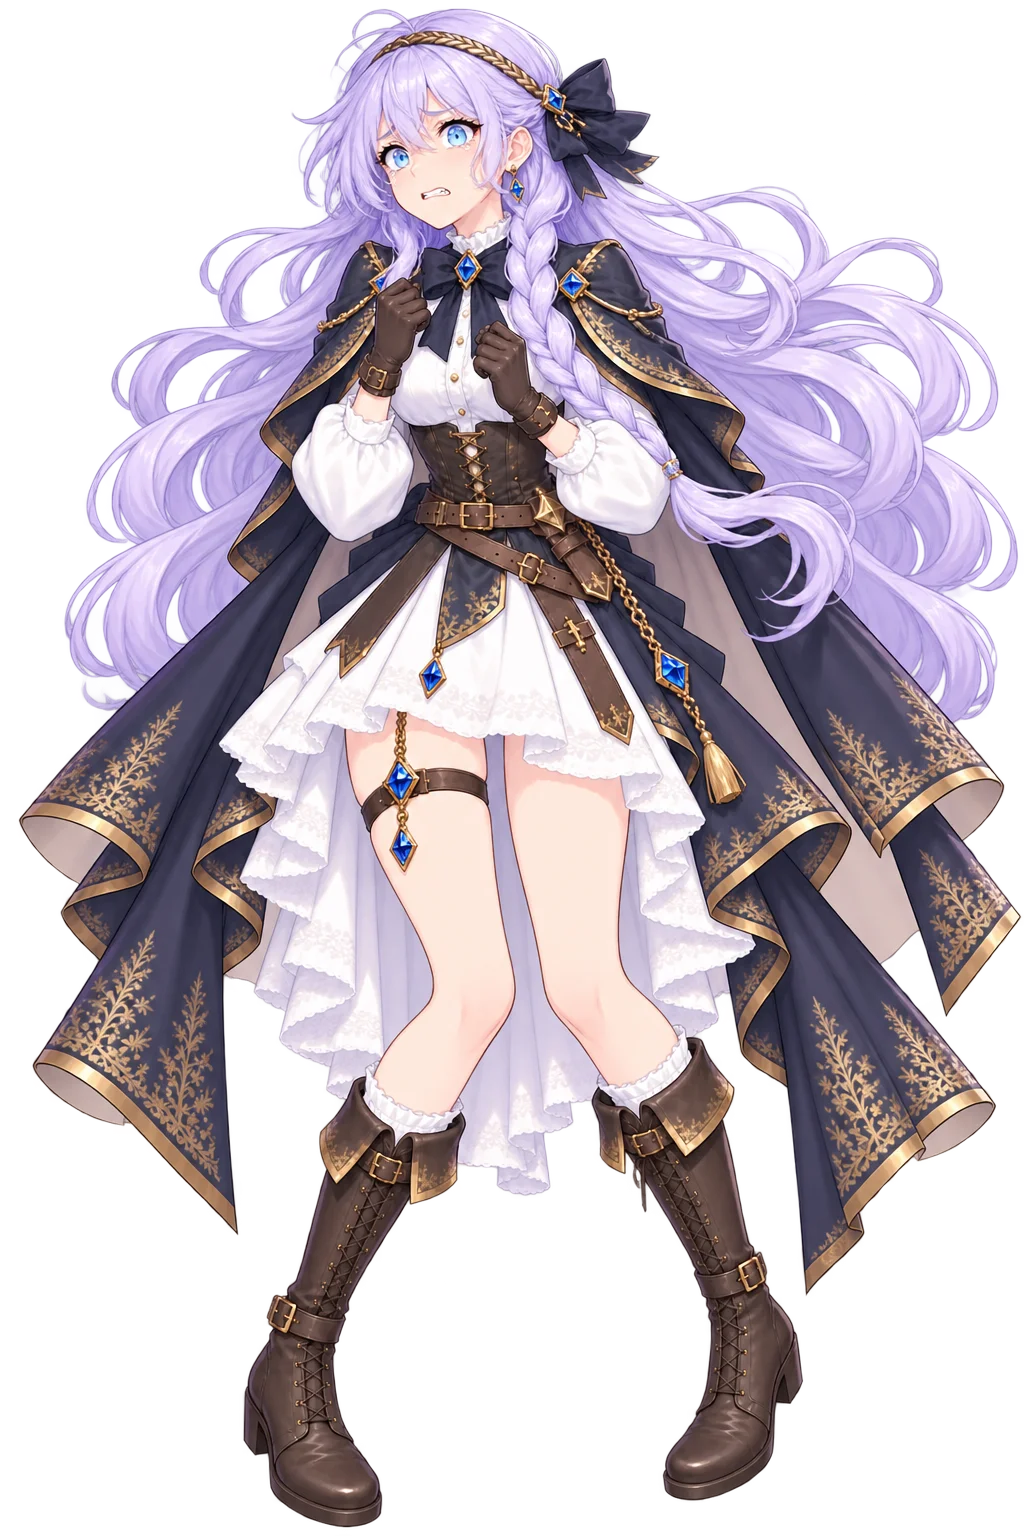
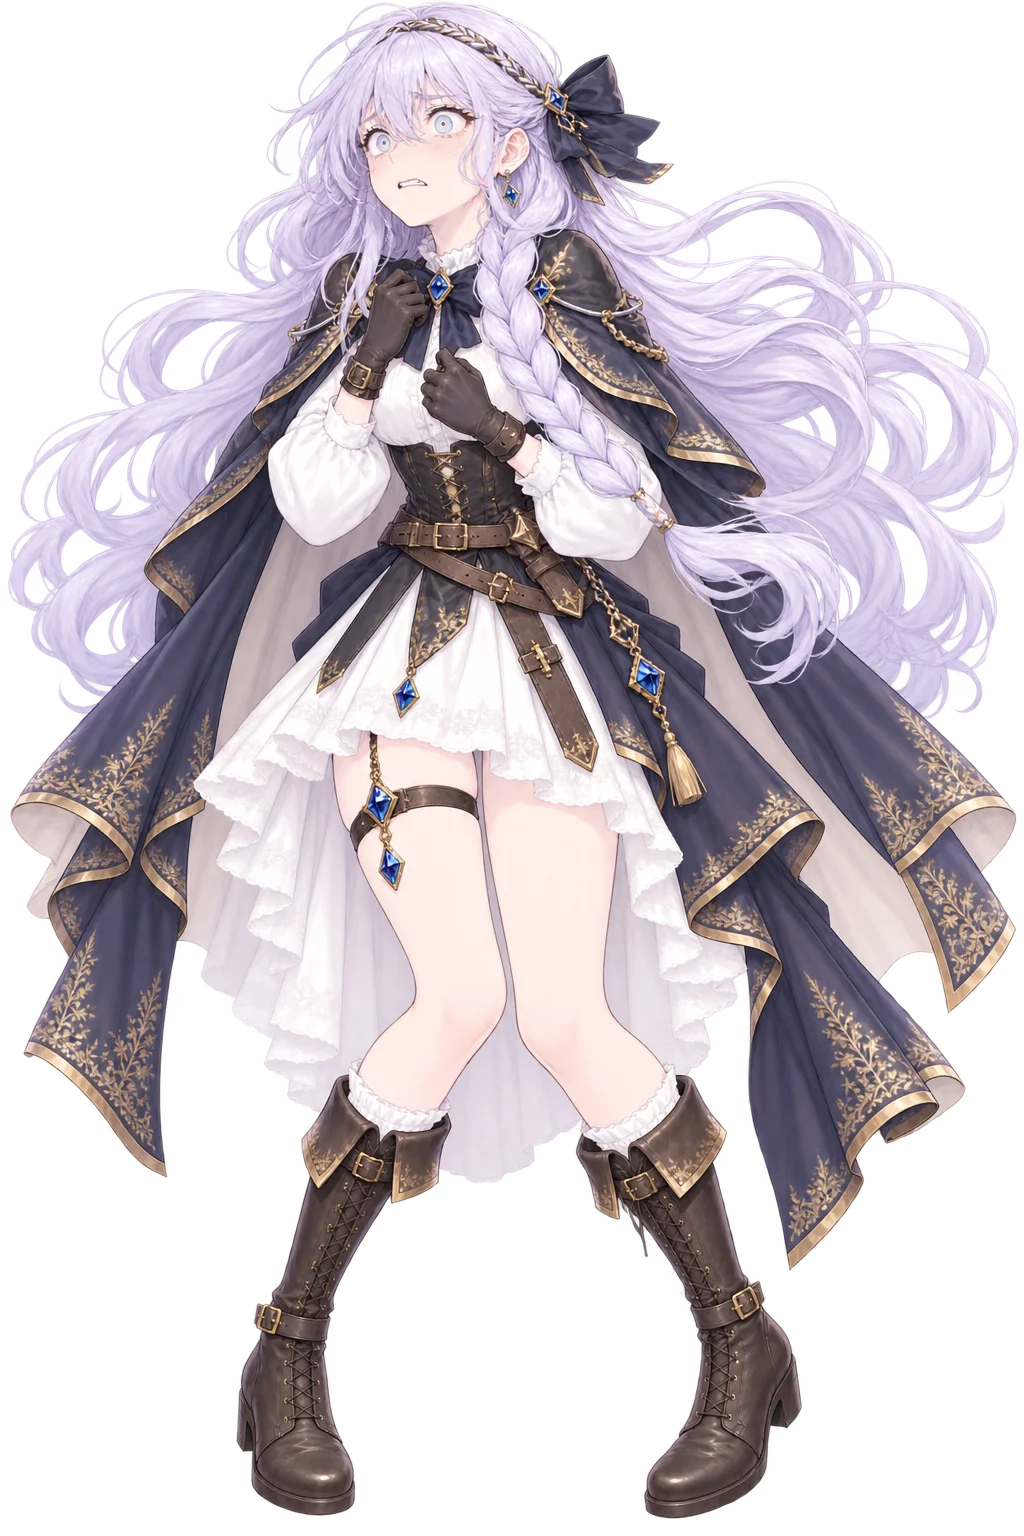
art(安雅): terrify 還原成重畫前舊版（重畫版表情壞掉）；HANDOFF 32 請程式端跳 ?v=3 並換回舊取景

diff --git a/HANDOFF.md b/HANDOFF.md
@@ -119,6 +119,9 @@
 >    ⇒ 第 29＋30 項接完之後，遊戲裡安雅就全部是新畫風了。
 > 31. **（09-28，Mac）索拉娜冒險者裝基底 `resources/si/sorana_ad_si_front.webp`**（Ray：「索拉娜的冒險者裝束立繪，一字領抹胸與短夾克，貼身七分褲」；命名同第 28 項 `<角色>_ad_si_<表情>`）
 >    **定稿（09-28 同日第三版，同名覆蓋）**：象牙白露肩泡泡袖罩衫＋深祖母綠仕女腰封＋深墨綠開高衩長裙＋干邑色皮件＋大腿／腰間飛刀（無槍）＋繫帶短靴，**岔腿正面站姿**當基底（Ray：「就定稿這一版，讓她岔開腿站好當作基底」）。真 alpha；還沒有任何引用 ⇒ 不必跳 `?v=`。`measure_si.py`：`top:6 bot:1522 fx:0.502`。用在哪一段、要不要進 `speakers.js` 等 Ray（同 `renna_ad_si_front`）。
+> 32. **（09-28，Mac）安雅 `terrify` 還原成重畫前的舊版**（Ray：「安雅 terrify 修壞了，改回來，然後完全保留表情再重製一次」—— 重畫版把縮瞳失神的眼睛畫成正常藍眼）
+>    `resources/si/anya_si_terrify.webp` 已換回重畫前那一張（與 `8465b6de^` 逐位元組相同）。程式端：`speakers.js` 的 terrify **`?v=2`→`?v=3`**、取景改回舊值 **`top:0 bot:1518 fx:0.448`**。
+>    ⚠ 美術接著會照同一套作法、**鎖死表情**再重畫一次；重畫版交件時會再開一項（到時再跳 `?v=`）。
 > 美術現況與換機器交接：**`resources/_HANDOFF_ART_20260925.md`**（§七＝米夏九張；§八＝廢城兩次退稿到定風格；§九＝聖索菲亞 9 張＋廢城 55 張全交、產線的坑；**§十三＝09-27 收工換機器：薇拉馮德 73 張、惡棍 6 張、索拉娜三張回版、還開著的事、三個不明刪除**；§十四＝GPT 拒畫的 alpha 交 PC 走本機；**§十五＝09-28 收工：蘿媞六張、cry 手指、市政廳室內、惡棍群體、產線教訓**）（Windows 那台收工版；09-24 那份 §六～§八是細節）。做完把這一塊刪掉或標成已接。
 
 > ✅ **`tomb_misha_met` 東泊那一邊 -1717 接上了**（Ray 定案：AB 順序長談在「滿足滿足！」收場、
